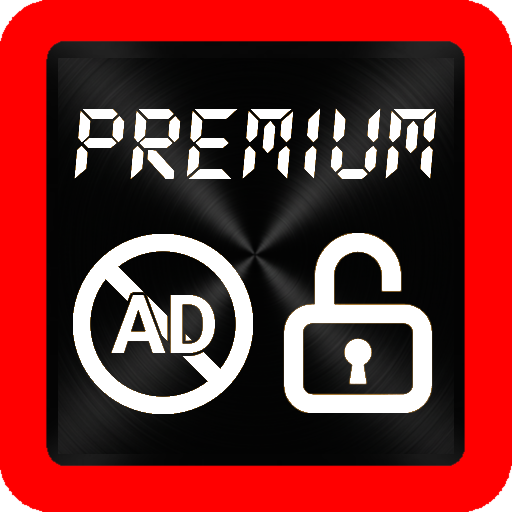
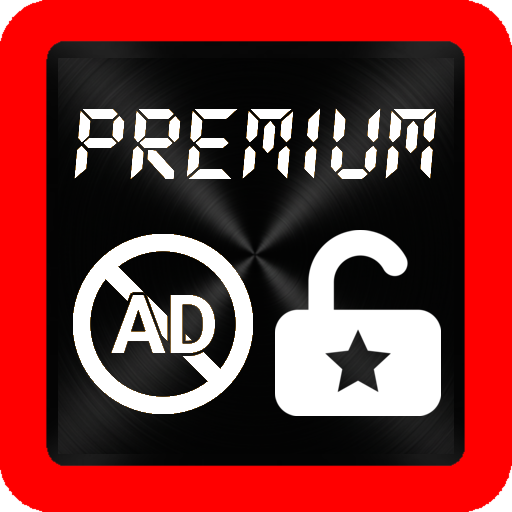
Use the star padlock on the purchase button and the purchase page, and bump to 1.6.3+81

diff --git a/lib/premium_page.dart b/lib/premium_page.dart
@@ -5,6 +5,7 @@ import 'package:flutter/material.dart';
 import 'common_widget.dart';
 import 'constant.dart';
 import 'extension.dart';
+import 'settings.dart' show padlockIcon;
 
 // One plain platform font throughout, since context.font() gives Korean a display face.
 // The PREMIUM board keeps letsgo, its own alphabet.
@@ -220,11 +221,7 @@ class PremiumPage extends StatelessWidget {
       child: Row(
         mainAxisSize: MainAxisSize.min,
         children: [
-          Icon(
-            Icons.lock_open,
-            color: lampColor,
-            size: context.premiumBuyFontSize(),
-          ),
+          padlockIcon(context.premiumBuyFontSize()),
           SizedBox(width: context.premiumIconMargin()),
           Text(
             context.premiumBuy(price),
